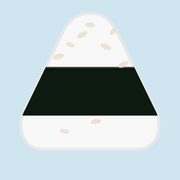
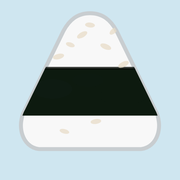
fix: faviconの輪郭コントラスト向上・キャッシュ無効化クエリ(v=2)

Changed region(s): [[0.0833, 0.4167, 0.9167, 0.8611], [0.2222, 0.0556, 0.7778, 0.4167]]

diff --git a/index.html b/index.html
@@ -2,7 +2,7 @@
 <html lang="ja">
   <head>
     <meta charset="UTF-8" />
-    <link rel="icon" type="image/svg+xml" href="/favicon.svg" />
+    <link rel="icon" type="image/svg+xml" href="/favicon.svg?v=2" />
     <link rel="apple-touch-icon" href="/apple-touch-icon.png" />
     <link rel="manifest" href="/manifest.webmanifest" />
     <meta
